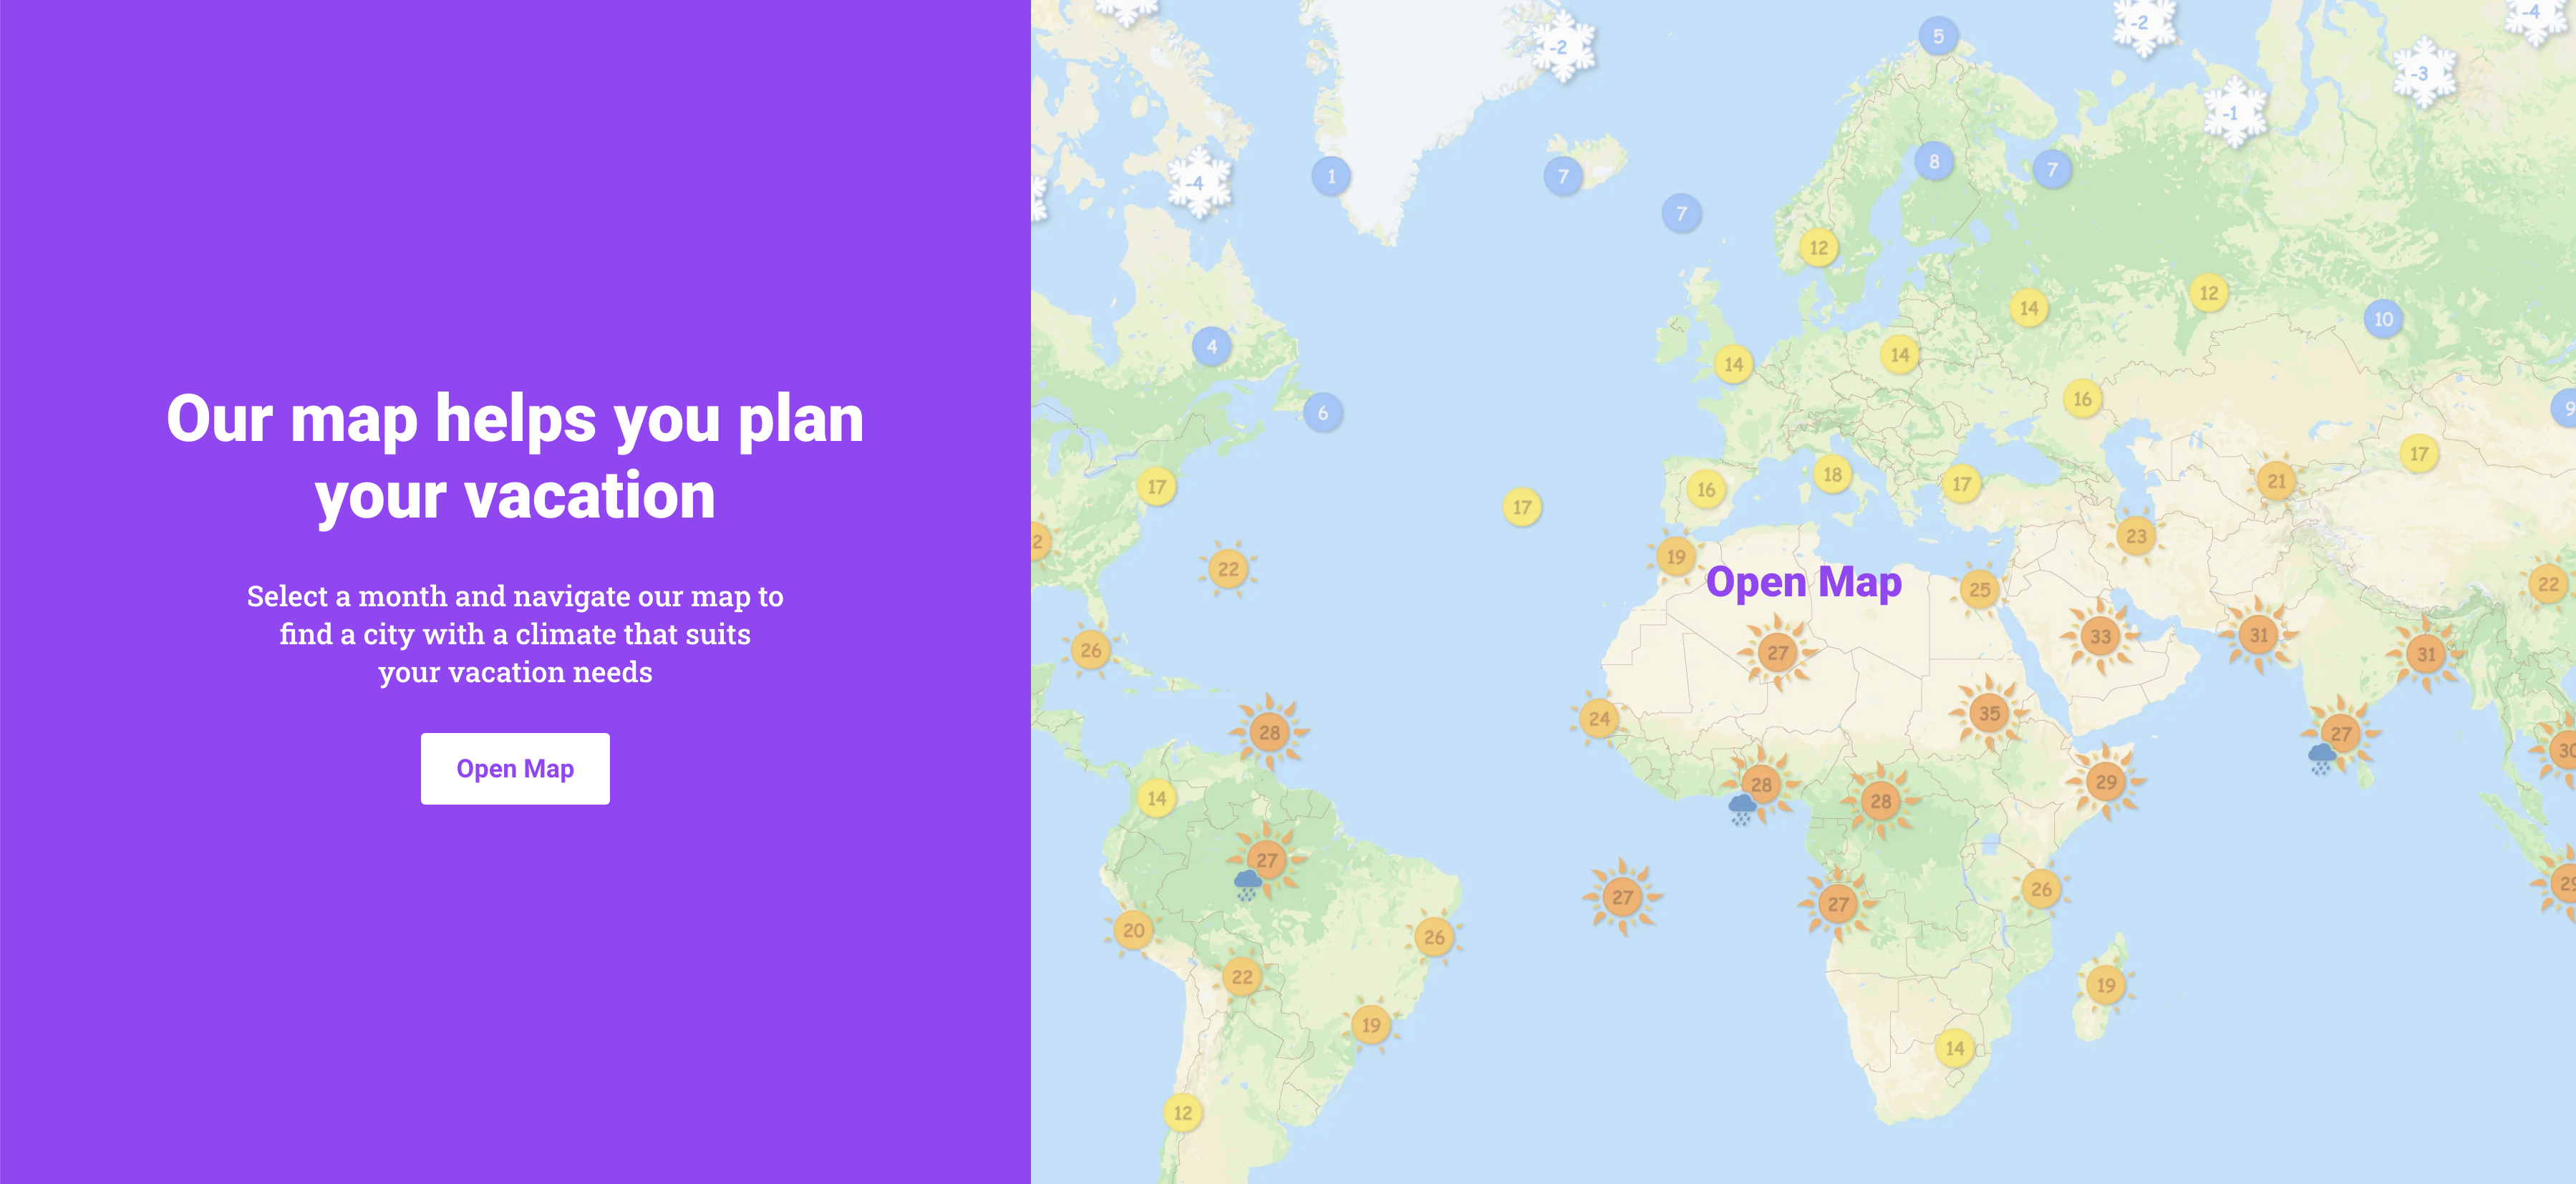
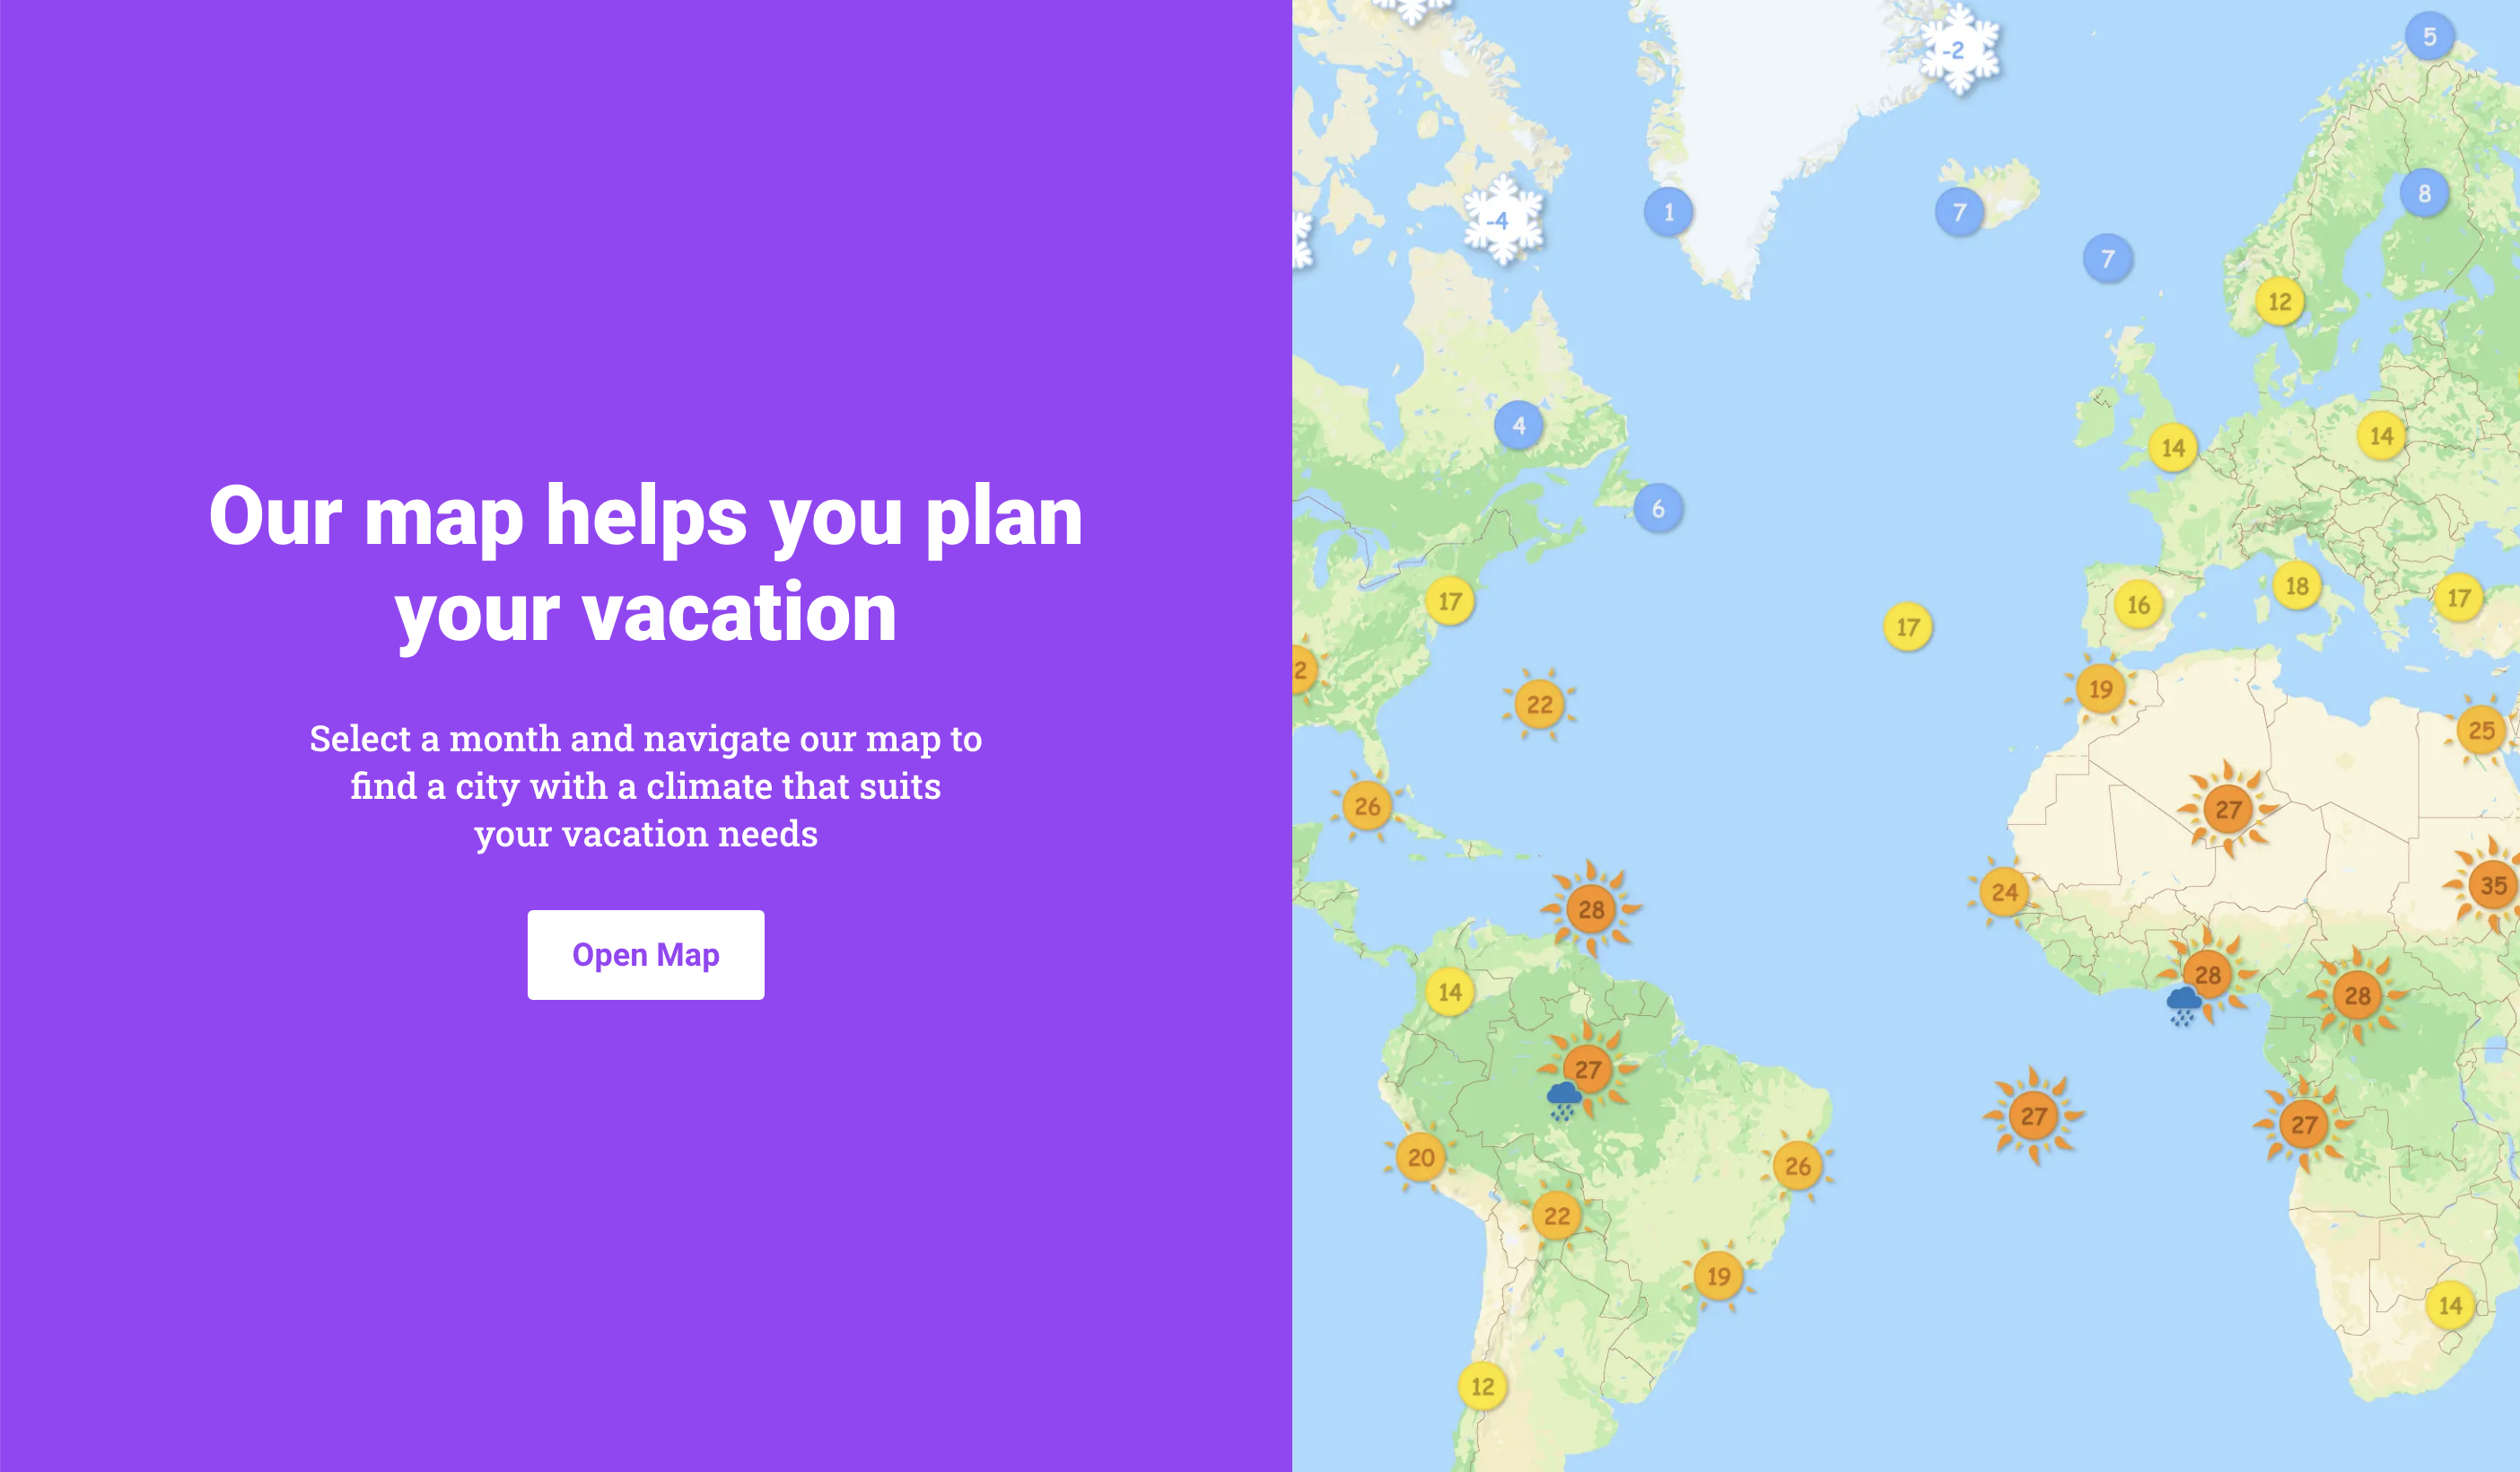
Refine cards, links, and copy
- Wrap each project in a real card frame so image and text feel
  connected; intro/about now span full container width.
- Swap chunky arrow glyphs for plain blue links; underline appears
  on hover only.
- Update achtungonline copy to reflect pathfinding AI instead of
  the unfinished multiplayer.
- Refresh trevelur screenshot.

diff --git a/style.css b/style.css
@@ -4,6 +4,8 @@
   --ink-soft: #6B7280;
   --line: #E5E7EB;
   --accent: #1F2937;
+  --link: #0969DA;
+  --link-hover: #0550AE;
   --radius: 10px;
 }
 
@@ -39,7 +41,6 @@ a { color: inherit; text-decoration: none; }
   font-size: 17px;
   color: var(--ink-soft);
   margin: 0 0 16px;
-  max-width: 52ch;
 }
 .intro__links {
   display: flex;
@@ -47,12 +48,14 @@ a { color: inherit; text-decoration: none; }
   font-size: 15px;
 }
 .intro__links a {
-  color: var(--ink);
-  border-bottom: 1px solid var(--line);
-  padding-bottom: 1px;
-  transition: border-color .15s;
+  color: var(--link);
+  transition: color .15s;
 }
-.intro__links a:hover { border-color: var(--ink); }
+.intro__links a:hover {
+  color: var(--link-hover);
+  text-decoration: underline;
+  text-underline-offset: 3px;
+}
 
 /* ---------- About ---------- */
 .about {
@@ -71,7 +74,6 @@ a { color: inherit; text-decoration: none; }
   font-size: 16px;
   color: var(--ink);
   margin: 0 0 14px;
-  max-width: 62ch;
 }
 .about p:last-child { margin-bottom: 0; }
 
@@ -89,7 +91,23 @@ a { color: inherit; text-decoration: none; }
 }
 
 .project {
-  display: block;
+  display: flex;
+  flex-direction: column;
+  background: #FFFFFF;
+  border: 1px solid var(--line);
+  border-radius: 16px;
+  overflow: hidden;
+  box-shadow:
+    0 1px 2px rgba(17, 20, 24, .04),
+    0 10px 28px -16px rgba(17, 20, 24, .14);
+  transition: transform .35s cubic-bezier(.2,.7,.2,1),
+              box-shadow .35s cubic-bezier(.2,.7,.2,1);
+}
+.project:hover {
+  transform: translateY(-3px);
+  box-shadow:
+    0 1px 2px rgba(17, 20, 24, .04),
+    0 26px 44px -18px rgba(17, 20, 24, .22);
 }
 
 .project__media {
@@ -97,20 +115,9 @@ a { color: inherit; text-decoration: none; }
   position: relative;
   width: 100%;
   aspect-ratio: 16 / 10;
-  border-radius: 14px;
   overflow: hidden;
   background: #F3F4F6;
-  box-shadow:
-    0 1px 2px rgba(17, 20, 24, .05),
-    0 8px 24px -12px rgba(17, 20, 24, .15);
-  transition: transform .35s cubic-bezier(.2,.7,.2,1),
-              box-shadow .35s cubic-bezier(.2,.7,.2,1);
-}
-.project__media:hover {
-  transform: translateY(-3px);
-  box-shadow:
-    0 1px 2px rgba(17, 20, 24, .05),
-    0 24px 40px -16px rgba(17, 20, 24, .22);
+  border-bottom: 1px solid var(--line);
 }
 .project__media img {
   display: block;
@@ -120,7 +127,10 @@ a { color: inherit; text-decoration: none; }
 }
 
 .project__body {
-  padding: 18px 2px 0;
+  padding: 22px 24px 24px;
+  display: flex;
+  flex-direction: column;
+  flex: 1;
 }
 .project__body h3 {
   font-size: 22px;
@@ -133,8 +143,8 @@ a { color: inherit; text-decoration: none; }
 .project__body p {
   font-size: 15.5px;
   color: var(--ink-soft);
-  margin: 0 0 14px;
-  max-width: 60ch;
+  margin: 0 0 16px;
+  flex: 1;
 }
 
 .project__links {
@@ -143,26 +153,22 @@ a { color: inherit; text-decoration: none; }
   gap: 18px;
 }
 .project__cta {
-  display: inline-flex;
-  align-items: center;
-  gap: 4px;
   font-size: 14px;
   font-weight: 500;
-  color: var(--ink);
+  color: var(--link);
+  transition: color .15s;
 }
-.project__cta--muted { color: var(--ink-soft); }
-.project__cta .arrow {
-  display: inline-block;
-  transition: transform .2s;
-}
-.project__cta:hover .arrow {
-  transform: translate(2px, -2px);
+.project__cta:hover {
+  color: var(--link-hover);
+  text-decoration: underline;
+  text-underline-offset: 3px;
 }
 
 @media (max-width: 520px) {
   .container { padding: 56px 20px 48px; }
-  .project { margin-bottom: 44px; }
-  .project__media { aspect-ratio: 16 / 9; border-radius: 10px; }
+  .project { border-radius: 14px; }
+  .project__media { aspect-ratio: 16 / 9; }
+  .project__body { padding: 20px 20px 22px; }
   .project__body h3 { font-size: 20px; }
 }
 

diff --git a/index.html b/index.html
@@ -43,14 +43,12 @@
         </a>
         <div class="project__body">
           <h3><a href="https://achtungonline.com" target="_blank" rel="noopener">achtungonline</a></h3>
-          <p>A browser remake of the classic Achtung Die Kurve. Steer a growing curve, dodge other players' trails, and survive longer than everyone else. Built from scratch with a custom lobby and game server for real-time multiplayer.</p>
+          <p>A browser remake of the classic Achtung Die Kurve. Steer a growing curve, dodge other players' trails, and survive longer than everyone else. Built from scratch with pathfinding AI opponents to play against.</p>
           <div class="project__links">
             <a class="project__cta" href="https://achtungonline.com" target="_blank" rel="noopener">
-              achtungonline.com <span class="arrow" aria-hidden="true">↗</span>
-            </a>
+              achtungonline.com            </a>
             <a class="project__cta project__cta--muted" href="https://github.com/achtungonline" target="_blank" rel="noopener">
-              Source <span class="arrow" aria-hidden="true">↗</span>
-            </a>
+              Source            </a>
           </div>
         </div>
       </article>
@@ -64,8 +62,7 @@
           <p>Find the best time to travel anywhere on the planet. Browse climate, weather, visa and vaccine information for cities around the world through an interactive map.</p>
           <div class="project__links">
             <a class="project__cta" href="https://trevelur.com" target="_blank" rel="noopener">
-              trevelur.com <span class="arrow" aria-hidden="true">↗</span>
-            </a>
+              trevelur.com            </a>
           </div>
         </div>
       </article>